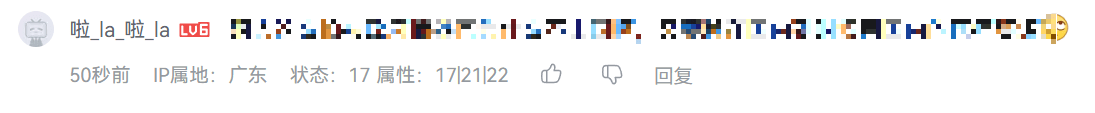
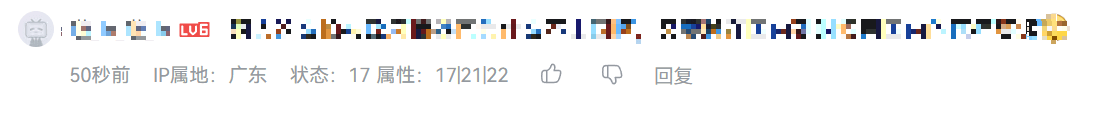
reply新增菜单开关回复按钮增强

Changed region(s): [[0.0621, 0.1858, 0.1553, 0.3717], [0.9315, 0.1858, 0.9936, 0.3717]]

diff --git a/dist/bili-reply-adapt.user.js b/dist/bili-reply-adapt.user.js
@@ -2,7 +2,7 @@
 // @name        B站评论显示状态
 // @namespace   https://github.com/ZBpine/bili-danmaku-adapt/
 // @description 评论显示状态，以便知道是否被阿瓦隆。
-// @version     1.1.1
+// @version     1.1.2
 // @author      ZBpine
 // @icon        https://www.bilibili.com/favicon.ico
 // @match       https://www.bilibili.com/*
@@ -20,6 +20,7 @@ const settings = {
     showIP: GM_getValue("showIP", true),
     showState: GM_getValue("showState", true),
     showAttr: GM_getValue("showAttr", true),
+    enhanceRepliesToggle: GM_getValue("enhanceRepliesToggle", true),
 };
 
 function registerMenu(key, label) {
@@ -32,6 +33,7 @@ function registerMenu(key, label) {
 registerMenu("showIP", "显示 IP 属地");
 registerMenu("showState", "显示 状态");
 registerMenu("showAttr", "显示 属性位");
+registerMenu("enhanceRepliesToggle", "增强 回复展开收起");
 GM_registerMenuCommand("菜单不会立即刷新", () => {});
 
 const STATE_MAP = {
@@ -268,7 +270,9 @@ customElements.define = function (name, constructor) {
             // 执行我们的注入逻辑
             // 放到 microtask 确保渲染彻底完成
             if (name === "bili-comment-replies-renderer") {
-                Promise.resolve().then(() => injectRefreshToReplies(this));
+                if (settings.enhanceRepliesToggle) {
+                    Promise.resolve().then(() => injectRefreshToReplies(this));
+                }
             } else {
                 Promise.resolve().then(() => performInjection(this));
             }

diff --git a/src/reply.js b/src/reply.js
@@ -2,6 +2,7 @@ const settings = {
     showIP: GM_getValue("showIP", true),
     showState: GM_getValue("showState", true),
     showAttr: GM_getValue("showAttr", true),
+    enhanceRepliesToggle: GM_getValue("enhanceRepliesToggle", true),
 };
 
 function registerMenu(key, label) {
@@ -14,6 +15,7 @@ function registerMenu(key, label) {
 registerMenu("showIP", "显示 IP 属地");
 registerMenu("showState", "显示 状态");
 registerMenu("showAttr", "显示 属性位");
+registerMenu("enhanceRepliesToggle", "增强 回复展开收起");
 GM_registerMenuCommand("菜单不会立即刷新", () => {});
 
 const STATE_MAP = {
@@ -250,7 +252,9 @@ customElements.define = function (name, constructor) {
             // 执行我们的注入逻辑
             // 放到 microtask 确保渲染彻底完成
             if (name === "bili-comment-replies-renderer") {
-                Promise.resolve().then(() => injectRefreshToReplies(this));
+                if (settings.enhanceRepliesToggle) {
+                    Promise.resolve().then(() => injectRefreshToReplies(this));
+                }
             } else {
                 Promise.resolve().then(() => performInjection(this));
             }

diff --git a/webpack.config.js b/webpack.config.js
@@ -58,7 +58,7 @@ module.exports = [{
             file: "bili-reply-adapt.user.js",
             name: "B站评论显示状态",
             namespace: "https://github.com/ZBpine/bili-danmaku-adapt/",
-            version: "1.1.1",
+            version: "1.1.2",
             description:
                 "评论显示状态，以便知道是否被阿瓦隆。",
             author: "ZBpine",

diff --git a/reply.md b/reply.md
@@ -5,7 +5,7 @@
 - 状态为0则不显示
 - 有时评论刚发出来状态未更新，刷新方法：
   - 主评论：可以切换最热/最新评论查看
-  - 回复：可以通过收起展开查看（对于没有回复或已展开但不能收起的评论，脚本增加了刷新与收起按钮）
+  - 回复：可以通过收起展开查看（对于没有回复或已展开但不能收起的评论，脚本增加了刷新与收起按钮，可在菜单关闭此功能）
 
 ---
 
@@ -23,8 +23,9 @@
 |8|UP点赞|
 |9|UP回复|
 |27|带图|
-|24|似乎与评论者有关？|
-|28|?|
+|17, 21, 22|状态为17时通常也带有这几个属性|
+
+*还有不少属性不知道含义，如果用户有自己的发现可以反馈，谢谢🙏*
 
 ![阿瓦隆](./img/reply_adapt.example.png)
 
